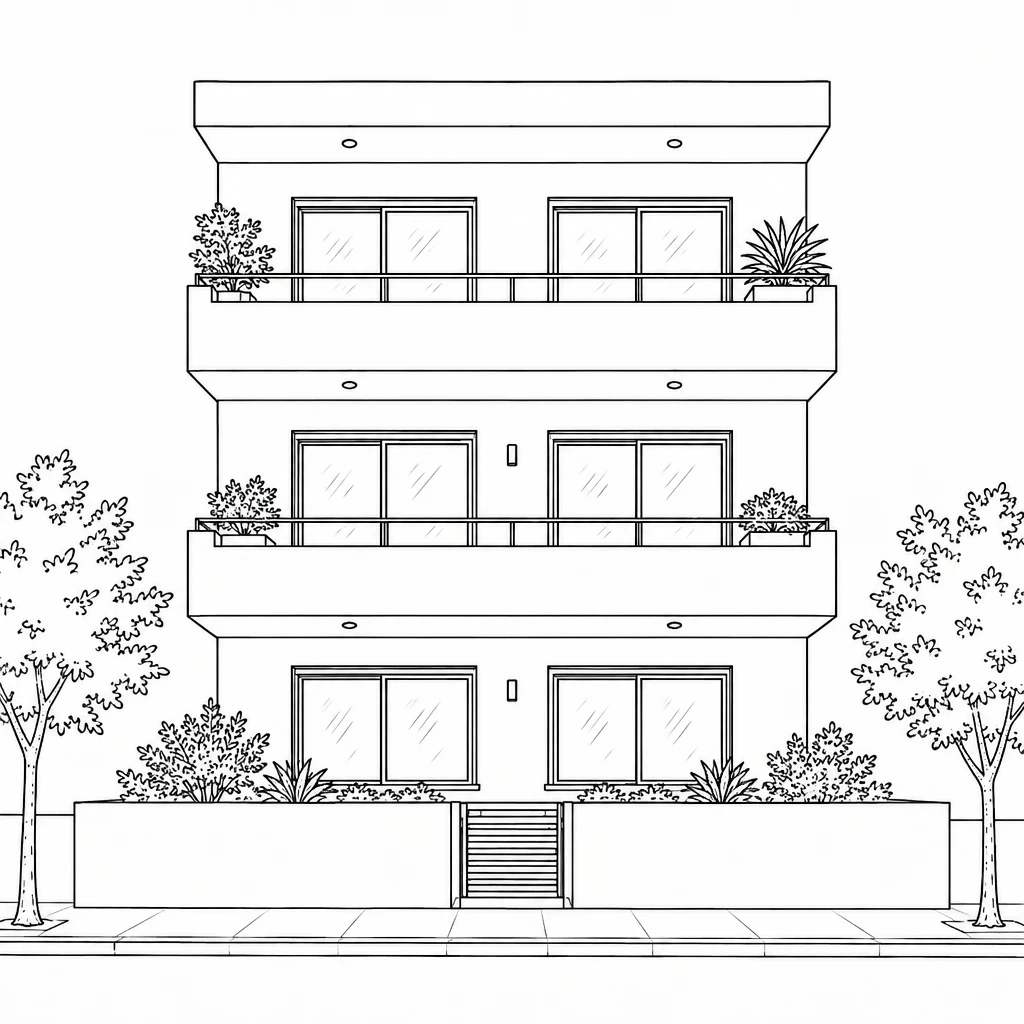
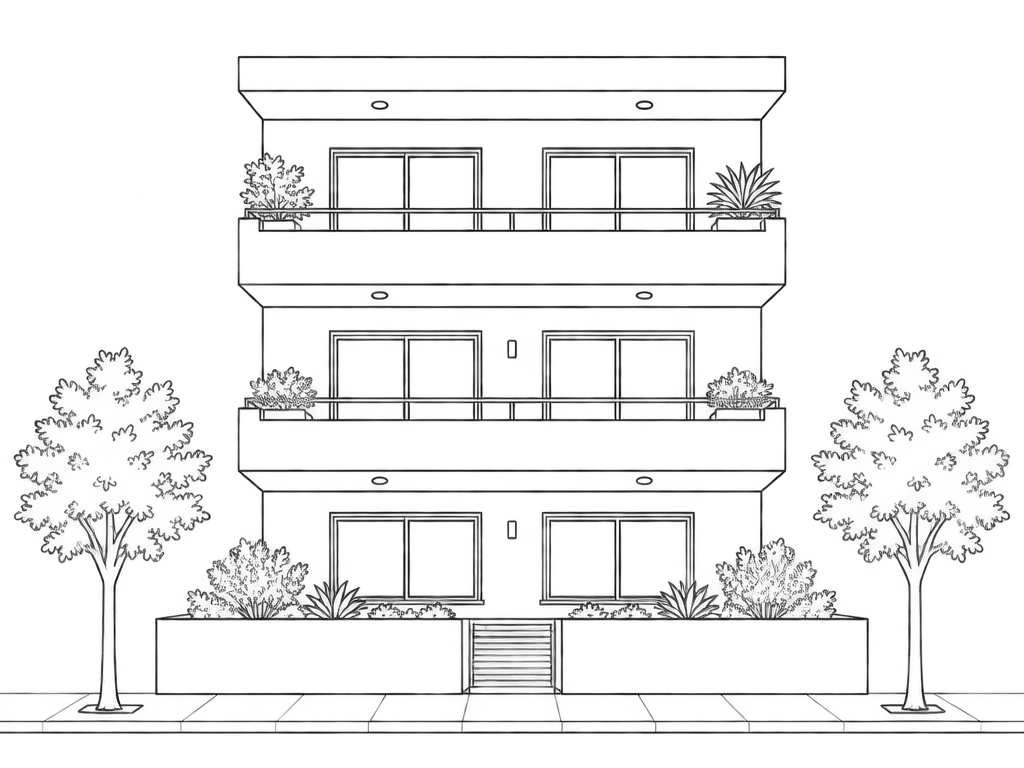
Services: new building drawing in the accordion
The supplied drawing (1024x768, transparent) is flattened onto white so the
multiply blend still drops the background. The SVG viewBox follows the new
aspect, and the six window-light rects are re-measured to the new panes,
keeping the same item <-> window pairs. The building renders at the same
width as before in the 560x480 desktop box.

Changed region(s): [[0.0, 0.3438, 1.0, 0.9688], [0.1875, 0.0625, 0.8125, 0.3125]]

diff --git a/index.html b/index.html
@@ -184,14 +184,14 @@
         </details>
         </div>
         <div class="services__media">
-          <svg class="services__building" viewBox="0 0 1024 1024" preserveAspectRatio="xMidYMax meet" aria-hidden="true">
-            <g class="services__window" data-light="4"><rect x="304" y="213" width="76" height="88"/><rect x="387" y="213" width="80" height="88"/></g>
-            <g class="services__window" data-light="2"><rect x="559" y="213" width="76" height="88"/><rect x="642" y="213" width="79" height="88"/></g>
-            <g class="services__window" data-light="0"><rect x="559" y="446" width="76" height="99"/><rect x="642" y="446" width="79" height="99"/></g>
-            <g class="services__window" data-light="1"><rect x="304" y="680" width="76" height="100"/><rect x="387" y="680" width="80" height="100"/></g>
-            <g class="services__window" data-light="3"><rect x="559" y="680" width="76" height="100"/><rect x="642" y="680" width="79" height="100"/></g>
-            <g class="services__window" data-light="5"><rect x="304" y="446" width="76" height="99"/><rect x="387" y="446" width="80" height="99"/></g>
-            <image href="assets/building-front.png" width="1024" height="1024"/>
+          <svg class="services__building" viewBox="0 0 1024 768" preserveAspectRatio="xMidYMax meet" aria-hidden="true">
+            <g class="services__window" data-light="4"><rect x="338" y="158" width="66" height="72"/><rect x="410" y="158" width="63" height="72"/></g>
+            <g class="services__window" data-light="2"><rect x="551" y="158" width="64" height="72"/><rect x="621" y="158" width="65" height="72"/></g>
+            <g class="services__window" data-light="0"><rect x="551" y="341" width="64" height="78"/><rect x="621" y="341" width="65" height="78"/></g>
+            <g class="services__window" data-light="1"><rect x="338" y="522" width="66" height="74"/><rect x="410" y="522" width="63" height="74"/></g>
+            <g class="services__window" data-light="3"><rect x="551" y="522" width="64" height="74"/><rect x="621" y="522" width="65" height="74"/></g>
+            <g class="services__window" data-light="5"><rect x="338" y="341" width="66" height="78"/><rect x="410" y="341" width="63" height="78"/></g>
+            <image href="assets/building-front.png" width="1024" height="768"/>
           </svg>
         </div>
       </div>
